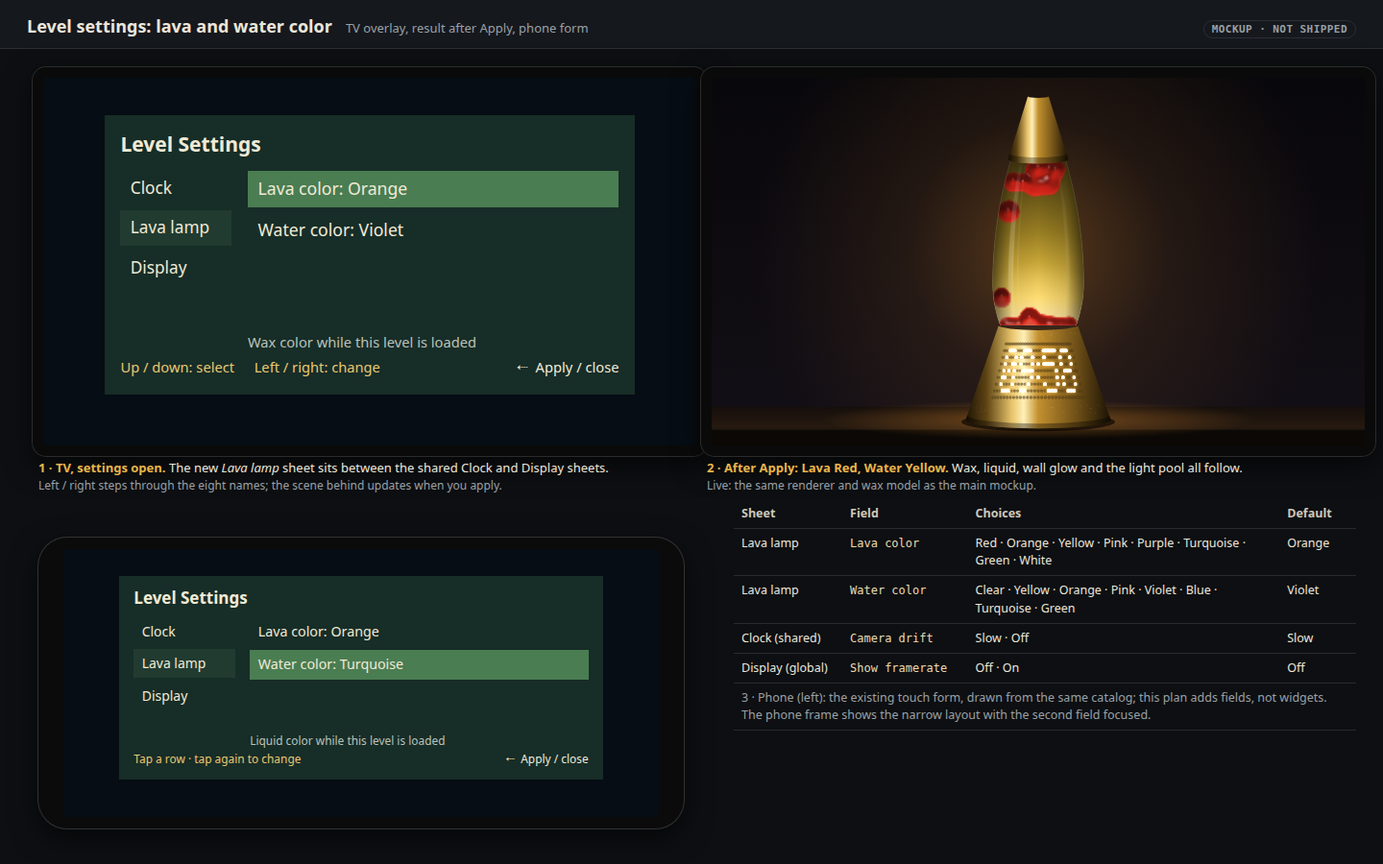
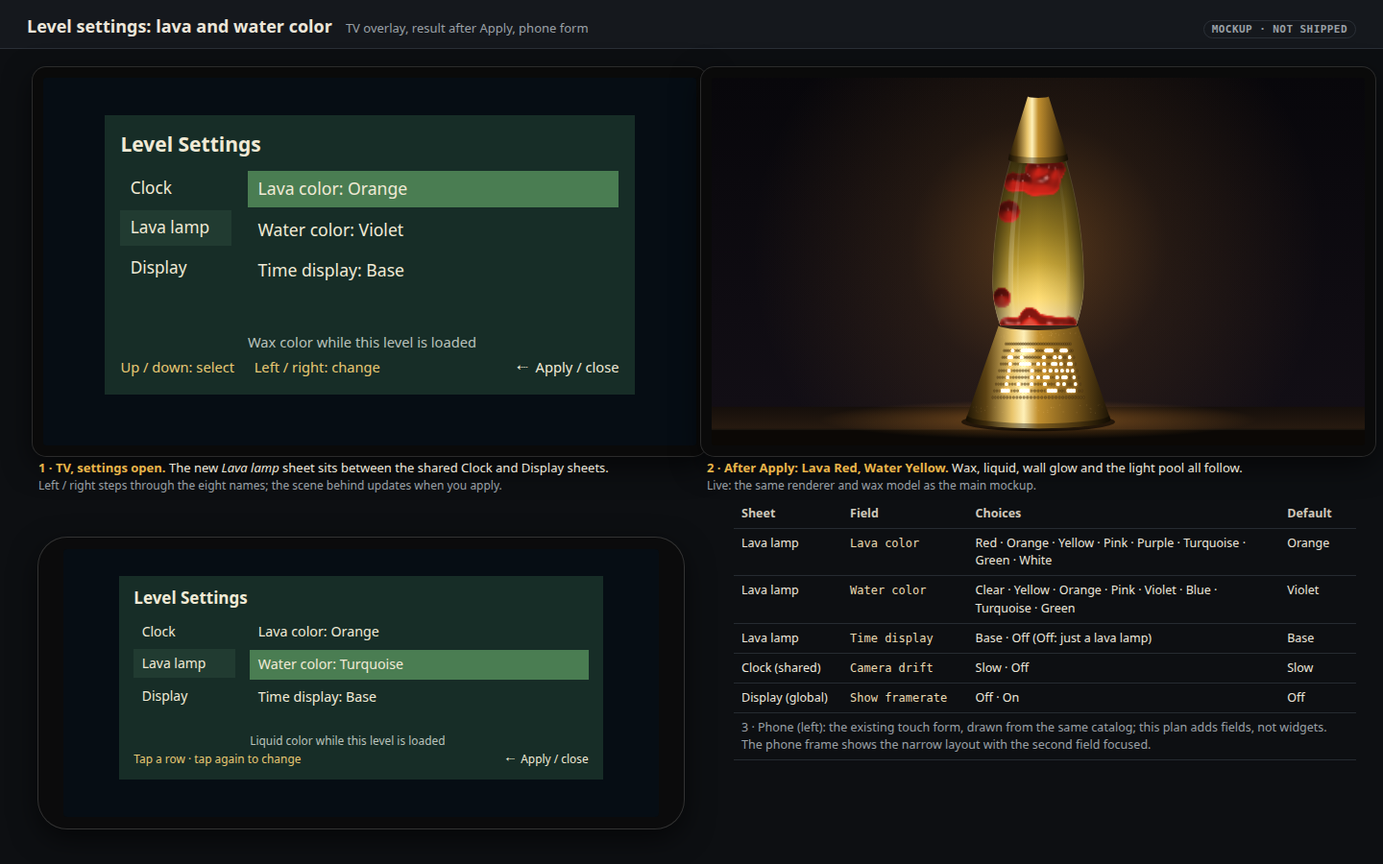
Lava lamp plan approved: starlight holes, Time display setting, 1959 on the poster
Will: "q1 1, q2 yes, q7 yes". The plan records the answers (other
questions at their recommendations), adds the Time display field
(Base / Off) to LavaLampSettings and both settings mockups, and puts
Travelling Light (1959) on the poster timeline.

Claude-Session: https://claude.ai/code/session_01YEenqPBXQwjNMi8EXwe2or

diff --git a/docs/plans/2026-11-26-lava-lamp/settings.html b/docs/plans/2026-11-26-lava-lamp/settings.html
@@ -38,7 +38,7 @@ header .tag{margin-left:auto;font:600 11px ui-monospace,SFMono-Regular,Menlo,mon
 <div class="tv" style="left:34px;top:70px"><div style="position:relative;width:680px;height:383px;font-size:21px;overflow:hidden;border-radius:3px">
  <div class="ov"><div class="pnl"><h2>Level Settings</h2>
  <div class="rail"><div>Clock</div><div class="on">Lava lamp</div><div>Display</div></div>
- <div class="rows"><div class="f">Lava color: Orange</div><div>Water color: Violet</div></div>
+ <div class="rows"><div class="f">Lava color: Orange</div><div>Water color: Violet</div><div>Time display: Base</div></div>
  <div class="hint">Wax color while this level is loaded</div>
  <div class="foot"><span>Up / down: select</span><span>Left / right: change</span><span>⇠&nbsp; Apply / close</span></div></div></div></div></div>
 <div class="cap" style="left:40px;top:478px"><b>1 · TV, settings open.</b> The new <i>Lava lamp</i> sheet sits between the shared Clock and Display sheets.<small>Left / right steps through the eight names; the scene behind updates when you apply.</small></div>
@@ -47,13 +47,14 @@ header .tag{margin-left:auto;font:600 11px ui-monospace,SFMono-Regular,Menlo,mon
 <div class="phone" style="left:40px;top:560px"><div style="position:relative;width:620px;height:279px;font-size:17px;overflow:hidden;border-radius:4px">
  <div class="ov"><div class="pnl"><h2>Level Settings</h2>
  <div class="rail"><div>Clock</div><div class="on">Lava lamp</div><div>Display</div></div>
- <div class="rows"><div>Lava color: Orange</div><div class="f">Water color: Turquoise</div></div>
+ <div class="rows"><div>Lava color: Orange</div><div class="f">Water color: Turquoise</div><div>Time display: Base</div></div>
  <div class="hint">Liquid color while this level is loaded</div>
  <div class="foot"><span>Tap a row · tap again to change</span><span>⇠&nbsp; Apply / close</span></div></div></div></div></div>
 <div class="cap" style="left:730px;top:478px;display:none"></div>
 <table id="tbl"><tr><th>Sheet</th><th>Field</th><th>Choices</th><th>Default</th></tr>
 <tr><td>Lava lamp</td><td><code>Lava color</code></td><td>Red · Orange · Yellow · Pink · Purple · Turquoise · Green · White</td><td>Orange</td></tr>
 <tr><td>Lava lamp</td><td><code>Water color</code></td><td>Clear · Yellow · Orange · Pink · Violet · Blue · Turquoise · Green</td><td>Violet</td></tr>
+<tr><td>Lava lamp</td><td><code>Time display</code></td><td>Base · Off (Off: just a lava lamp)</td><td>Base</td></tr>
 <tr><td>Clock (shared)</td><td><code>Camera drift</code></td><td>Slow · Off</td><td>Slow</td></tr>
 <tr><td>Display (global)</td><td><code>Show framerate</code></td><td>Off · On</td><td>Off</td></tr>
 <tr><td colspan="4" style="color:#9aa0a6">3 · Phone (left): the existing touch form, drawn from the same catalog; this plan adds fields, not widgets. The phone frame shows the narrow layout with the second field focused.</td></tr></table>
@@ -166,7 +167,7 @@ function drawHoleBand(ctx,cx,yT,yB,rAt,text,mode,th){
   th=th||1.0;const level=mode==='dim'?0.45:1;
   for(let c=0;c<nC;c++)for(let r=0;r<nR;r++){
     const y=yT+(r+0.5)*pitch,rr=rAt(y),a=((c-(nC-1)/2)/((nC-1)/2))*th,x=cx+rr*Math.sin(a),w=Math.cos(a);
-    if(cols[c][r]){ctx.fillStyle='rgba(20,12,3,0.9)';ell(ctx,x,y,hr*w*1.15,hr*1.15);lit.push([x,y,w]);}else{ctx.fillStyle='rgba(60,40,10,0.55)';ell(ctx,x,y,hr*w*0.8,hr*0.8);ctx.fillStyle='rgba(255,206,130,0.12)';ell(ctx,x,y,hr*w*0.5,hr*0.5);}
+    if(cols[c][r]&&mode!=='off'){ctx.fillStyle='rgba(20,12,3,0.9)';ell(ctx,x,y,hr*w*1.15,hr*1.15);lit.push([x,y,w]);}else{ctx.fillStyle='rgba(60,40,10,0.55)';ell(ctx,x,y,hr*w*0.8,hr*0.8);ctx.fillStyle='rgba(255,206,130,0.12)';ell(ctx,x,y,hr*w*0.5,hr*0.5);}
   }
   ctx.save();ctx.globalCompositeOperation='lighter';
   for(const [x,y,w] of lit){const g=ctx.createRadialGradient(x,y,0,x,y,hr*2.1);g.addColorStop(0,`rgba(255,196,110,${0.3*level})`);g.addColorStop(1,'rgba(255,170,80,0)');

diff --git a/docs/plans/2026-11-26-lava-lamp/lamp.html b/docs/plans/2026-11-26-lava-lamp/lamp.html
@@ -165,7 +165,7 @@ function drawHoleBand(ctx,cx,yT,yB,rAt,text,mode,th){
   th=th||1.0;const level=mode==='dim'?0.45:1;
   for(let c=0;c<nC;c++)for(let r=0;r<nR;r++){
     const y=yT+(r+0.5)*pitch,rr=rAt(y),a=((c-(nC-1)/2)/((nC-1)/2))*th,x=cx+rr*Math.sin(a),w=Math.cos(a);
-    if(cols[c][r]){ctx.fillStyle='rgba(20,12,3,0.9)';ell(ctx,x,y,hr*w*1.15,hr*1.15);lit.push([x,y,w]);}else{ctx.fillStyle='rgba(60,40,10,0.55)';ell(ctx,x,y,hr*w*0.8,hr*0.8);ctx.fillStyle='rgba(255,206,130,0.12)';ell(ctx,x,y,hr*w*0.5,hr*0.5);}
+    if(cols[c][r]&&mode!=='off'){ctx.fillStyle='rgba(20,12,3,0.9)';ell(ctx,x,y,hr*w*1.15,hr*1.15);lit.push([x,y,w]);}else{ctx.fillStyle='rgba(60,40,10,0.55)';ell(ctx,x,y,hr*w*0.8,hr*0.8);ctx.fillStyle='rgba(255,206,130,0.12)';ell(ctx,x,y,hr*w*0.5,hr*0.5);}
   }
   ctx.save();ctx.globalCompositeOperation='lighter';
   for(const [x,y,w] of lit){const g=ctx.createRadialGradient(x,y,0,x,y,hr*2.1);g.addColorStop(0,`rgba(255,196,110,${0.3*level})`);g.addColorStop(1,'rgba(255,170,80,0)');
@@ -242,11 +242,11 @@ function runViews(views,onFrame){
 
 
 // Applied values: what the level is running with. Pending: what the form shows until Apply.
-const applied={lava:DEF_LAVA,water:DEF_WATER,drift:0,fps:0};
+const applied={lava:DEF_LAVA,water:DEF_WATER,time:0,drift:0,fps:0};
 const pending=Object.assign({},applied);
 const SHEETS=[
  ["Clock",[["drift","Camera drift",["Slow","Off"],"The camera drifts slowly so no pixel sits still on the screen; Off holds it still"]]],
- ["Lava lamp",[["lava","Lava color",LAVA.map(x=>x[0]),"Wax color while this level is loaded"],["water","Water color",WATER.map(x=>x[0]),"Liquid color while this level is loaded"]]],
+ ["Lava lamp",[["lava","Lava color",LAVA.map(x=>x[0]),"Wax color while this level is loaded"],["water","Water color",WATER.map(x=>x[0]),"Liquid color while this level is loaded"],["time","Time display",["Base","Off"],"Show the time in the base of the lamp; Off leaves just the lava lamp"]]],
  ["Display",[["fps","Show framerate",["Off","On"],"Show the frames per second overlay at the bottom right"]]]];
 let sheet=1,row=0;
 function renderForm(){
@@ -271,9 +271,9 @@ renderForm();
 const sim=makeSim(7,8);let fpsShown=60,lastT=performance.now();
 const views=[
  {canvas:document.getElementById('tv'),sim,draw:(ctx,W,H,v)=>{const now=performance.now(),dt=now-lastT;lastT=now;if(dt>0&&dt<200)fpsShown=fpsShown*0.95+0.05*(1000/dt);
-   v.G=drawScene(ctx,W,H,{sim,lava:applied.lava,water:applied.water,time:nowHHMM(),cache:v.cache||(v.cache={}),drift:applied.drift?0:W*0.006*Math.sin(sim.t*2*Math.PI/600)});
+   v.G=drawScene(ctx,W,H,{sim,lava:applied.lava,water:applied.water,time:applied.time?null:nowHHMM(),mode:applied.time?'off':'',cache:v.cache||(v.cache={}),drift:applied.drift?0:W*0.006*Math.sin(sim.t*2*Math.PI/600)});
    if(applied.fps){ctx.font='13px ui-monospace,monospace';const t=fpsShown.toFixed(1),w=ctx.measureText(t).width;ctx.fillStyle='rgba(0,0,0,.6)';ctx.fillRect(W-w-22,H-28,w+12,19);ctx.fillStyle='#fff';ctx.fillText(t,W-w-16,H-14);}}},
- {canvas:document.getElementById('zoom'),sim,frozen:true,draw:(ctx,W,H,v)=>{drawScene(ctx,W,H,{sim,lava:applied.lava,water:applied.water,time:nowHHMM(),cache:v.cache||(v.cache={}),scale:1.25,baseFrac:0.96});}}];
+ {canvas:document.getElementById('zoom'),sim,frozen:true,draw:(ctx,W,H,v)=>{drawScene(ctx,W,H,{sim,lava:applied.lava,water:applied.water,time:applied.time?null:nowHHMM(),mode:applied.time?'off':'',cache:v.cache||(v.cache={}),scale:1.25,baseFrac:0.96});}}];
 const LEG=[["Cap","conical metal cap; the top of the globe is the coolest place, where wax rests and cools before it sinks"],
 ["Glass","tapered globe, widest a quarter of the way up; painted highlight strips and darkened edges give the cylinder its volume"],
 ["Rising blob","heated wax stretches into a teardrop as it climbs, cools as it goes, then flattens against the top"],

diff --git a/docs/plans/2026-11-26-lava-lamp/poster.html b/docs/plans/2026-11-26-lava-lamp/poster.html
@@ -94,7 +94,7 @@ header .tag{margin-left:auto;font:600 11px ui-monospace,SFMono-Regular,Menlo,mon
  <p>The hero image on the sheet is this mockup's canvas lamp. The print uses a Cycles render of the shipped Blender scene, as the aquarium posters do.</p>
  <p>The patent table links each number to Google Patents. The PDF keeps the links, and the print adds a QR code per row (Q8).</p>
  <p>Panel 05 runs from Dunnet's 1950 filing to Cloudflare's wall of about 100 lamps in 2017. Events are spaced evenly, not to scale.</p>
- <p>Q7 asks whether the timeline should mention that Craven Walker also directed <i>Travelling Light</i> (1959), the first naturist film released publicly in the UK.</p>
+ <p>Q7, yes: the timeline includes 1959, when Craven Walker (as Michael Keatering) directed <i>Travelling Light</i>, the first naturist film released publicly in the UK.</p>
  <p>Panel 06 is the movement code. Panel 07 lists the four ways to move the wax that the plan weighs (D6); the Forth model is ticked as recommended.</p>
 </div>
 
@@ -206,7 +206,7 @@ function drawHoleBand(ctx,cx,yT,yB,rAt,text,mode,th){
   th=th||1.0;const level=mode==='dim'?0.45:1;
   for(let c=0;c<nC;c++)for(let r=0;r<nR;r++){
     const y=yT+(r+0.5)*pitch,rr=rAt(y),a=((c-(nC-1)/2)/((nC-1)/2))*th,x=cx+rr*Math.sin(a),w=Math.cos(a);
-    if(cols[c][r]){ctx.fillStyle='rgba(20,12,3,0.9)';ell(ctx,x,y,hr*w*1.15,hr*1.15);lit.push([x,y,w]);}else{ctx.fillStyle='rgba(60,40,10,0.55)';ell(ctx,x,y,hr*w*0.8,hr*0.8);ctx.fillStyle='rgba(255,206,130,0.12)';ell(ctx,x,y,hr*w*0.5,hr*0.5);}
+    if(cols[c][r]&&mode!=='off'){ctx.fillStyle='rgba(20,12,3,0.9)';ell(ctx,x,y,hr*w*1.15,hr*1.15);lit.push([x,y,w]);}else{ctx.fillStyle='rgba(60,40,10,0.55)';ell(ctx,x,y,hr*w*0.8,hr*0.8);ctx.fillStyle='rgba(255,206,130,0.12)';ell(ctx,x,y,hr*w*0.5,hr*0.5);}
   }
   ctx.save();ctx.globalCompositeOperation='lighter';
   for(const [x,y,w] of lit){const g=ctx.createRadialGradient(x,y,0,x,y,hr*2.1);g.addColorStop(0,`rgba(255,196,110,${0.3*level})`);g.addColorStop(1,'rgba(255,170,80,0)');
@@ -307,7 +307,7 @@ S('dens',`<rect x="0" y="0" width="190" height="150" fill="#fff8ea" rx="8"/><pat
 ${T(150,136,'temperature →',{fs:10})}${T(12,70,'ρ',{fs:14,w:700})}${T(58,28,'wax',{fs:10,c:'#c2481a',w:700})}${T(58,72,'liquid',{fs:10,c:'#3d6fb0',w:700})}
 ${T(62,146,'sinks',{fs:10})}${T(150,146,'rises',{fs:10})}`);
 // 05: evenly spaced timeline, two-line labels
-const ev=[['1950','Dunnet files','GB 703,924'],['1963','Astro','launched'],['1965','US rights:','Lava Lite, Chicago'],['1968','US 3,387,396','granted'],['1970','CCl₄ banned','in US lamps'],['late 1970s','Haggerty buys','the US rights'],['1992','Crestworth','becomes Mathmos'],['1998','Lavarand','patent granted'],['2000','Craven Walker','dies'],['2017','Cloudflare’s','lamp wall']];
-S('tl',`<path d="M10 40 H994" stroke="#5a4a3a" stroke-width="2"/>`+ev.map(([y,a,b],i)=>{const x=60+i*98;return `<circle cx="${x}" cy="40" r="5" fill="#c2581a"/>${T(x,26,y,{w:700,fs:13})}${T(x,62,a,{fs:11})}${T(x,76,b,{fs:11})}`;}).join(''));
+const ev=[['1950','Dunnet files','GB 703,924'],['1959','Travelling Light,','his naturist film'],['1963','Astro','launched'],['1965','Lava Lite,','Chicago'],['1968','US 3,387,396','granted'],['1970','CCl₄ banned','in US lamps'],['late 1970s','Haggerty buys','the US rights'],['1992','renamed','Mathmos'],['1998','Lavarand','patent'],['2000','Craven Walker','dies'],['2017','Cloudflare’s','lamp wall']];
+S('tl',`<path d="M10 40 H994" stroke="#5a4a3a" stroke-width="2"/>`+ev.map(([y,a,b],i)=>{const x=50+i*90;return `<circle cx="${x}" cy="40" r="5" fill="#c2581a"/>${T(x,26,y,{w:700,fs:13})}${T(x,62,a,{fs:11})}${T(x,76,b,{fs:11})}`;}).join(''));
 window.__ready=true;
 </script></body></html>

diff --git a/docs/plans/2026-11-26-lava-lamp/build_mockups.py b/docs/plans/2026-11-26-lava-lamp/build_mockups.py
@@ -124,7 +124,7 @@ function drawHoleBand(ctx,cx,yT,yB,rAt,text,mode,th){
   th=th||1.0;const level=mode==='dim'?0.45:1;
   for(let c=0;c<nC;c++)for(let r=0;r<nR;r++){
     const y=yT+(r+0.5)*pitch,rr=rAt(y),a=((c-(nC-1)/2)/((nC-1)/2))*th,x=cx+rr*Math.sin(a),w=Math.cos(a);
-    if(cols[c][r]){ctx.fillStyle='rgba(20,12,3,0.9)';ell(ctx,x,y,hr*w*1.15,hr*1.15);lit.push([x,y,w]);}else{ctx.fillStyle='rgba(60,40,10,0.55)';ell(ctx,x,y,hr*w*0.8,hr*0.8);ctx.fillStyle='rgba(255,206,130,0.12)';ell(ctx,x,y,hr*w*0.5,hr*0.5);}
+    if(cols[c][r]&&mode!=='off'){ctx.fillStyle='rgba(20,12,3,0.9)';ell(ctx,x,y,hr*w*1.15,hr*1.15);lit.push([x,y,w]);}else{ctx.fillStyle='rgba(60,40,10,0.55)';ell(ctx,x,y,hr*w*0.8,hr*0.8);ctx.fillStyle='rgba(255,206,130,0.12)';ell(ctx,x,y,hr*w*0.5,hr*0.5);}
   }
   ctx.save();ctx.globalCompositeOperation='lighter';
   for(const [x,y,w] of lit){const g=ctx.createRadialGradient(x,y,0,x,y,hr*2.1);g.addColorStop(0,`rgba(255,196,110,${0.3*level})`);g.addColorStop(1,'rgba(255,170,80,0)');
@@ -273,11 +273,11 @@ LAMP_CSS = """
 """
 LAMP_SCRIPT = r"""
 // Applied values: what the level is running with. Pending: what the form shows until Apply.
-const applied={lava:DEF_LAVA,water:DEF_WATER,drift:0,fps:0};
+const applied={lava:DEF_LAVA,water:DEF_WATER,time:0,drift:0,fps:0};
 const pending=Object.assign({},applied);
 const SHEETS=[
  ["Clock",[["drift","Camera drift",["Slow","Off"],"The camera drifts slowly so no pixel sits still on the screen; Off holds it still"]]],
- ["Lava lamp",[["lava","Lava color",LAVA.map(x=>x[0]),"Wax color while this level is loaded"],["water","Water color",WATER.map(x=>x[0]),"Liquid color while this level is loaded"]]],
+ ["Lava lamp",[["lava","Lava color",LAVA.map(x=>x[0]),"Wax color while this level is loaded"],["water","Water color",WATER.map(x=>x[0]),"Liquid color while this level is loaded"],["time","Time display",["Base","Off"],"Show the time in the base of the lamp; Off leaves just the lava lamp"]]],
  ["Display",[["fps","Show framerate",["Off","On"],"Show the frames per second overlay at the bottom right"]]]];
 let sheet=1,row=0;
 function renderForm(){
@@ -302,9 +302,9 @@ renderForm();
 const sim=makeSim(7,8);let fpsShown=60,lastT=performance.now();
 const views=[
  {canvas:document.getElementById('tv'),sim,draw:(ctx,W,H,v)=>{const now=performance.now(),dt=now-lastT;lastT=now;if(dt>0&&dt<200)fpsShown=fpsShown*0.95+0.05*(1000/dt);
-   v.G=drawScene(ctx,W,H,{sim,lava:applied.lava,water:applied.water,time:nowHHMM(),cache:v.cache||(v.cache={}),drift:applied.drift?0:W*0.006*Math.sin(sim.t*2*Math.PI/600)});
+   v.G=drawScene(ctx,W,H,{sim,lava:applied.lava,water:applied.water,time:applied.time?null:nowHHMM(),mode:applied.time?'off':'',cache:v.cache||(v.cache={}),drift:applied.drift?0:W*0.006*Math.sin(sim.t*2*Math.PI/600)});
    if(applied.fps){ctx.font='13px ui-monospace,monospace';const t=fpsShown.toFixed(1),w=ctx.measureText(t).width;ctx.fillStyle='rgba(0,0,0,.6)';ctx.fillRect(W-w-22,H-28,w+12,19);ctx.fillStyle='#fff';ctx.fillText(t,W-w-16,H-14);}}},
- {canvas:document.getElementById('zoom'),sim,frozen:true,draw:(ctx,W,H,v)=>{drawScene(ctx,W,H,{sim,lava:applied.lava,water:applied.water,time:nowHHMM(),cache:v.cache||(v.cache={}),scale:1.25,baseFrac:0.96});}}];
+ {canvas:document.getElementById('zoom'),sim,frozen:true,draw:(ctx,W,H,v)=>{drawScene(ctx,W,H,{sim,lava:applied.lava,water:applied.water,time:applied.time?null:nowHHMM(),mode:applied.time?'off':'',cache:v.cache||(v.cache={}),scale:1.25,baseFrac:0.96});}}];
 const LEG=[["Cap","conical metal cap; the top of the globe is the coolest place, where wax rests and cools before it sinks"],
 ["Glass","tapered globe, widest a quarter of the way up; painted highlight strips and darkened edges give the cylinder its volume"],
 ["Rising blob","heated wax stretches into a teardrop as it climbs, cools as it goes, then flattens against the top"],
@@ -450,7 +450,7 @@ SET_BODY = """
 <div class="tv" style="left:34px;top:70px"><div style="position:relative;width:680px;height:383px;font-size:21px;overflow:hidden;border-radius:3px">
  <div class="ov"><div class="pnl"><h2>Level Settings</h2>
  <div class="rail"><div>Clock</div><div class="on">Lava lamp</div><div>Display</div></div>
- <div class="rows"><div class="f">Lava color: Orange</div><div>Water color: Violet</div></div>
+ <div class="rows"><div class="f">Lava color: Orange</div><div>Water color: Violet</div><div>Time display: Base</div></div>
  <div class="hint">Wax color while this level is loaded</div>
  <div class="foot"><span>Up / down: select</span><span>Left / right: change</span><span>⇠&nbsp; Apply / close</span></div></div></div></div></div>
 <div class="cap" style="left:40px;top:478px"><b>1 · TV, settings open.</b> The new <i>Lava lamp</i> sheet sits between the shared Clock and Display sheets.<small>Left / right steps through the eight names; the scene behind updates when you apply.</small></div>
@@ -459,13 +459,14 @@ SET_BODY = """
 <div class="phone" style="left:40px;top:560px"><div style="position:relative;width:620px;height:279px;font-size:17px;overflow:hidden;border-radius:4px">
  <div class="ov"><div class="pnl"><h2>Level Settings</h2>
  <div class="rail"><div>Clock</div><div class="on">Lava lamp</div><div>Display</div></div>
- <div class="rows"><div>Lava color: Orange</div><div class="f">Water color: Turquoise</div></div>
+ <div class="rows"><div>Lava color: Orange</div><div class="f">Water color: Turquoise</div><div>Time display: Base</div></div>
  <div class="hint">Liquid color while this level is loaded</div>
  <div class="foot"><span>Tap a row · tap again to change</span><span>⇠&nbsp; Apply / close</span></div></div></div></div></div>
 <div class="cap" style="left:730px;top:478px;display:none"></div>
 <table id="tbl"><tr><th>Sheet</th><th>Field</th><th>Choices</th><th>Default</th></tr>
 <tr><td>Lava lamp</td><td><code>Lava color</code></td><td>Red · Orange · Yellow · Pink · Purple · Turquoise · Green · White</td><td>Orange</td></tr>
 <tr><td>Lava lamp</td><td><code>Water color</code></td><td>Clear · Yellow · Orange · Pink · Violet · Blue · Turquoise · Green</td><td>Violet</td></tr>
+<tr><td>Lava lamp</td><td><code>Time display</code></td><td>Base · Off (Off: just a lava lamp)</td><td>Base</td></tr>
 <tr><td>Clock (shared)</td><td><code>Camera drift</code></td><td>Slow · Off</td><td>Slow</td></tr>
 <tr><td>Display (global)</td><td><code>Show framerate</code></td><td>Off · On</td><td>Off</td></tr>
 <tr><td colspan="4" style="color:#9aa0a6">3 · Phone (left): the existing touch form, drawn from the same catalog; this plan adds fields, not widgets. The phone frame shows the narrow layout with the second field focused.</td></tr></table>
@@ -576,7 +577,7 @@ POSTER_BODY = r"""
  <p>The hero image on the sheet is this mockup's canvas lamp. The print uses a Cycles render of the shipped Blender scene, as the aquarium posters do.</p>
  <p>The patent table links each number to Google Patents. The PDF keeps the links, and the print adds a QR code per row (Q8).</p>
  <p>Panel 05 runs from Dunnet's 1950 filing to Cloudflare's wall of about 100 lamps in 2017. Events are spaced evenly, not to scale.</p>
- <p>Q7 asks whether the timeline should mention that Craven Walker also directed <i>Travelling Light</i> (1959), the first naturist film released publicly in the UK.</p>
+ <p>Q7, yes: the timeline includes 1959, when Craven Walker (as Michael Keatering) directed <i>Travelling Light</i>, the first naturist film released publicly in the UK.</p>
  <p>Panel 06 is the movement code. Panel 07 lists the four ways to move the wax that the plan weighs (D6); the Forth model is ticked as recommended.</p>
 </div>
 """
@@ -606,8 +607,8 @@ S('dens',`<rect x="0" y="0" width="190" height="150" fill="#fff8ea" rx="8"/><pat
 ${T(150,136,'temperature →',{fs:10})}${T(12,70,'ρ',{fs:14,w:700})}${T(58,28,'wax',{fs:10,c:'#c2481a',w:700})}${T(58,72,'liquid',{fs:10,c:'#3d6fb0',w:700})}
 ${T(62,146,'sinks',{fs:10})}${T(150,146,'rises',{fs:10})}`);
 // 05: evenly spaced timeline, two-line labels
-const ev=[['1950','Dunnet files','GB 703,924'],['1963','Astro','launched'],['1965','US rights:','Lava Lite, Chicago'],['1968','US 3,387,396','granted'],['1970','CCl₄ banned','in US lamps'],['late 1970s','Haggerty buys','the US rights'],['1992','Crestworth','becomes Mathmos'],['1998','Lavarand','patent granted'],['2000','Craven Walker','dies'],['2017','Cloudflare’s','lamp wall']];
-S('tl',`<path d="M10 40 H994" stroke="#5a4a3a" stroke-width="2"/>`+ev.map(([y,a,b],i)=>{const x=60+i*98;return `<circle cx="${x}" cy="40" r="5" fill="#c2581a"/>${T(x,26,y,{w:700,fs:13})}${T(x,62,a,{fs:11})}${T(x,76,b,{fs:11})}`;}).join(''));
+const ev=[['1950','Dunnet files','GB 703,924'],['1959','Travelling Light,','his naturist film'],['1963','Astro','launched'],['1965','Lava Lite,','Chicago'],['1968','US 3,387,396','granted'],['1970','CCl₄ banned','in US lamps'],['late 1970s','Haggerty buys','the US rights'],['1992','renamed','Mathmos'],['1998','Lavarand','patent'],['2000','Craven Walker','dies'],['2017','Cloudflare’s','lamp wall']];
+S('tl',`<path d="M10 40 H994" stroke="#5a4a3a" stroke-width="2"/>`+ev.map(([y,a,b],i)=>{const x=50+i*90;return `<circle cx="${x}" cy="40" r="5" fill="#c2581a"/>${T(x,26,y,{w:700,fs:13})}${T(x,62,a,{fs:11})}${T(x,76,b,{fs:11})}`;}).join(''));
 window.__ready=true;
 """
 

diff --git a/docs/plans/2026-11-26-lava-lamp.md b/docs/plans/2026-11-26-lava-lamp.md
@@ -1,6 +1,6 @@
 # Lava lamp: a real lamp, with the time in its base
 
-**Status: plan for review, 2026‑11‑26.** Nothing is built. This plan replaces the design of [Lava-lamp digits](2026-11-24-lava-lamp-digits.md), whose wax forms the digits of the time. Here the level models and emulates an ordinary lava lamp, and the time moves to the lamp's base. The level becomes `lava_lamp`. Will's direction (2026‑11‑26):
+**Status: approved 2026‑11‑26; not built yet.** Will (2026‑11‑26): "q1 1, q2 yes, q7 yes": the starlight holes, a *Time display* setting, and the naturist-film line on the poster. The other decisions and questions stand at their recommendations, as offered. E2, the math words, is built ([math plan](2026-11-26-forth-math-words.md)). This plan replaces the design of [Lava-lamp digits](2026-11-24-lava-lamp-digits.md), whose wax forms the digits of the time. Here the level models and emulates an ordinary lava lamp, and the time moves to the lamp's base. The level becomes `lava_lamp`. Will's direction (2026‑11‑26):
 
 > "codex has coded a lava lamp screensaver but it's horrible … the engine can morph models, fwiw … let's change the design (for now) from using the lava to make the digits of the time to 'simply' modelling and emulating a regular lava lamp. research on the internet! put the current time in the base or something like that (give me 20 options for displaying the time) add level settings object to select lava color and water color"
 
@@ -44,7 +44,7 @@ What we keep from it: the settings-object pattern (`LavaLampDigitsSettings`, Cam
 | D4 | How the wax gets its shape | **Morph targets: a new `Morph` kind in the engine's one deformer slot (E1).** Blender shape keys export as a mesh chunk. Forth sets the weights each frame through `deform-block`, and the deformer also writes **prelit vertex colours**, so wax is smoothly (Gouraud) shaded and tinted (the renderer only Gouraud-shades prelit materials: `material.cc:113`) | (a) The engine's legacy CANM vertex-channel cycles (`anim/anim.cc`). They are loaded and played, but only as clock-driven loops, with no script control (`EMAILBOX_KEYFRAME` is `UNIMPLEMENTED`) and no exporter. (b) Non-uniform scale (3040–3042) plus `fish-deform`, Codex's approach: rigid. (c) A metaball shader: closest to real, but a new GPU path on GLES2 Chromecasts |
 | D5 | Merging and splitting | **Swap meshes at the neck.** Two touching blobs hide, and one merged mesh shows at their centroid, its `neck` weight following their distance and its radius ∛(r₁³ + r₂³) so the wax keeps its volume. Splitting runs the same swap in reverse, and a tower leaving the pool is the same trick. The swap happens where the wax is thinnest, so the eye does not see it | Never merge (blobs pass through each other); shader metaballs (D4c) |
 | D6 | How the wax moves | **A buoyancy model in the level's zForth** (F1 below). State lives in each blob's local mailboxes and the model takes fixed 1/30 s steps from `DELTA_TIME`. A Python reference (`model.py`) and a step-for-step trace test check it | F2 a baked tape; F3 a native C++ word; F4 Jolt rigid bodies (the parked TODO). See [How the wax moves](#how-the-wax-moves) |
-| D7 | Time display | **Option 1, starlight holes**: lit holes in the gold base spell HH:MM, 24-hour, on a 29 × 9 grid, with every other hole a faint glow. **Will picks** from the [twenty](#twenty-ways-to-show-the-time) (Q1) | Any of options 2–20 |
+| D7 | Time display | **Option 1, starlight holes**: lit holes in the gold base spell HH:MM, 24-hour, on a 29 × 9 grid, with every other hole a faint glow. Will chose it from the [twenty](#twenty-ways-to-show-the-time) (Q1), and a *Time display* setting (*Base / Off*) can turn it off (Q2) | Any of options 2–20 |
 | D8 | Colour settings | **Two choice fields on a `Lava lamp` sheet**: *Lava color* (8 names) and *Water color* (8 names). Defaults Orange in Violet, the Astro Gold pairing. All recolouring goes through the Morph deformer's tint channels, one mechanism for wax, pool, liquid, glass, wall glow and table light | Per-face colour mailboxes 3037–3039 (three materials, re-bake on write; their effect on prelit gradients is unproven); an indexed-palette swap like Corolla's (one global index, so 64 palettes for 8 × 8); an RGB picker (no picker widget exists) |
 | D9 | Start state | **Open mid-flow.** At load the model runs about 150 s of model time (a few milliseconds) so the level opens with wax already moving | A real cold start (45–90 min); a compressed 2‑min warm-up as a setting (Q4) |
 | D10 | Poster | **Yes: an A3 portrait poster on the repository's poster pipeline** (research document first, chips on every claim, `make_poster.py` / `export_poster.py`, pytest guard), as for the aquarium and Tide Harbour. Contents: physics, wax properties, history, patents with links, and Forth | A figure in this plan only |
@@ -55,14 +55,14 @@ What we keep from it: the settings-object pattern (`LavaLampDigitsSettings`, Cam
 
 | # | Question | My recommendation |
 |---|---|---|
-| Q1 | Which time display, from the twenty? You can pick more than one and choose between them in settings | **1, Starlight holes.** Second choices: 4 (Nixie) or 15 (flip clock) |
-| Q2 | Add a *Time display* setting (*Base / Off*) so the level can be just a lava lamp? | **Yes** (one more choice field) |
-| Q3 | Base and cap finish as a third setting (*Gold / Silver / Black*)? | **Not now.** Cheap with the tint path; add it if you want it |
-| Q4 | A *Flow* setting (*Real / Lively*, the latter ≈ 1.5× faster) or a compressed warm-up? | **No** for the first build. Tune from the PC run |
-| Q5 | Same-colour pairs (yellow in yellow) allowed? | **Yes**: it is the viewer's choice; the [palette sheet](#the-settings-lava-color-and-water-color) shows them |
-| Q6 | Into the 3D Clocks pack once the device pass is done? | **Yes**, after Phase 6 |
-| Q7 | The poster's timeline: mention that Craven Walker also directed *Travelling Light* (1959), the first naturist film released publicly in the UK? | **Yes, one line.** It is documented and it is the sort of detail that makes a poster |
-| Q8 | A QR code per patent on the printed poster? | **Yes** |
+| Q1 | Which time display, from the twenty? You can pick more than one and choose between them in settings | ~~**1, Starlight holes.** Second choices: 4 (Nixie) or 15 (flip clock)~~ **Chosen: 1, Starlight holes** (Will). |
+| Q2 | Add a *Time display* setting (*Base / Off*) so the level can be just a lava lamp? | ~~**Yes** (one more choice field)~~ **Yes** (Will): *Time display*, *Base / Off*, on the Lava lamp sheet. |
+| Q3 | Base and cap finish as a third setting (*Gold / Silver / Black*)? | ~~**Not now.** Cheap with the tint path; add it if you want it~~ Not now (recommendation stands). |
+| Q4 | A *Flow* setting (*Real / Lively*, the latter ≈ 1.5× faster) or a compressed warm-up? | ~~**No** for the first build. Tune from the PC run~~ No (recommendation stands). |
+| Q5 | Same-colour pairs (yellow in yellow) allowed? | ~~**Yes**: it is the viewer's choice; the [palette sheet](#the-settings-lava-color-and-water-color) shows them~~ Yes (recommendation stands). |
+| Q6 | Into the 3D Clocks pack once the device pass is done? | ~~**Yes**, after Phase 6~~ Yes, after Phase 6 (recommendation stands). |
+| Q7 | The poster's timeline: mention that Craven Walker also directed *Travelling Light* (1959), the first naturist film released publicly in the UK? | ~~**Yes, one line.** It is documented and it is the sort of detail that makes a poster~~ **Yes** (Will): 1959 joins the timeline. |
+| Q8 | A QR code per patent on the printed poster? | ~~**Yes**~~ Yes (recommendation stands). |
 
 ## The look
 
@@ -127,12 +127,13 @@ TYPEHEADER(Lava Lamp Settings,LavaLampSettings)
 	PROPERTY_SHEET_HEADER(Lava lamp,0)
 	TYPEENTRYINT32(Lava color,,0,7,1,"Red|Orange|Yellow|Pink|Purple|Turquoise|Green|White",SHOW_AS_RADIOBUTTONS|SHOW_AS_LIVE,"Wax color while this level is loaded")
 	TYPEENTRYINT32(Water color,,0,7,4,"Clear|Yellow|Orange|Pink|Violet|Blue|Turquoise|Green",SHOW_AS_RADIOBUTTONS|SHOW_AS_LIVE,"Liquid color while this level is loaded")
+	TYPEENTRYINT32(Time display,,0,1,0,"Base|Off",SHOW_AS_RADIOBUTTONS|SHOW_AS_LIVE,"Show the time in the base of the lamp; Off leaves just the lava lamp")
 	PROPERTY_SHEET_FOOTER
 	@include global_settings.inc
 TYPEFOOTER
 ```
 
-The Director reads both fields with `property@` every frame and compares them with the last values it applied, kept in director mailboxes. When either changes, it writes new tint channels to the static tinted actors (liquid, glass, wall glow, table light). The blobs and pool receive their tint every frame anyway, with their pose. `scripts/gen-settings-capabilities.py` regenerates the phone capability file as part of `build.sh`, as it does now.
+The Director reads the three fields with `property@` every frame. *Time display* Off hides the 40 numeral meshes and the colon and leaves the faint starlight holes, so the base still looks like an Astro and compares them with the last values it applied, kept in director mailboxes. When either changes, it writes new tint channels to the static tinted actors (liquid, glass, wall glow, table light). The blobs and pool receive their tint every frame anyway, with their pose. `scripts/gen-settings-capabilities.py` regenerates the phone capability file as part of `build.sh`, as it does now.
 
 [![All 64 lava and water pairings as small lamps; the default Orange in Violet outlined; numbered real pairings; low-contrast pairs marked](2026-11-26-lava-lamp/palettes.png)](2026-11-26-lava-lamp/palettes.html)
 
@@ -303,6 +304,7 @@ The poster is drawn at A3 size and scaled into the mockup, on real, sourced text
 **History for panel 05.**
 
 - 1950: Dunnet files his patent. Craven Walker later sees a home-made bubbling egg timer on a pub stove.
+- 1959: under the name Michael Keatering, Craven Walker directs *Travelling Light*, the first naturist film released publicly in the UK (Q7).
 - 1963: Crestworth launches the Astro.
 - 1965: Adolph Wertheimer and Hy Spector see it at a German trade show and buy the American rights (Lava Manufacturing Corporation, Chicago: the Lava Lite).
 - 1970: carbon tetrachloride is banned in US lamps.

diff --git a/TODO.md b/TODO.md
@@ -6,7 +6,7 @@
 
 - **Dutch Cuckoo Village audio.** Add an original two-note cuckoo call and a Sound setting. On desktop and Android, synchronize each call with the bird’s bob, skip missed calls after resume or clock changes, and verify mute, volume and Dream audio focus. Will deferred sound changes on 2026-11-24. [Tulpenkade plan](docs/plans/2026-11-24-dutch-cuckoo-village.md)
 
-- [T4] **Lava lamp screensaver (replaces Lava-lamp digits).** Model a real 1963-style Astro lamp: Morph deformer kind for wax shapes (E1), a zForth buoyancy model, the time in the base (Will picks from 20 options), Lava color and Water color settings. T4: E1's vertex-colour path is an open unknown, and the work spans engine, exporter, level and Forth. Awaiting Will's review of D1–D12 and Q1–Q8. [Plan](docs/plans/2026-11-26-lava-lamp.md)
+- [T4] **Lava lamp screensaver (replaces Lava-lamp digits).** Model a real 1963-style Astro lamp: Morph deformer kind for wax shapes (E1), a zForth buoyancy model, the time in the base (Will picks from 20 options), Lava color and Water color settings. T4: E1's vertex-colour path is an open unknown, and the work spans engine, exporter, level and Forth. Approved 2026‑11‑26 (Q1 starlight holes, Q2 Time display setting, Q7 naturist-film line; the rest at recommendations). E2 is built. [Plan](docs/plans/2026-11-26-lava-lamp.md)
 
 - [verify T3] **Forth math words, part 2: exponentials, logarithms, rounding, integer bits.** Built and pushed (a6ed5868e..57abb43d2): 27 words, custom syscalls 82–108; four levels' hand-rolled floors replaced. Verification 1–3 and 7 PASS; PC and WebAssembly agree bit for bit on all 36 words. Still open: 4 and 5 on cast1, cast2 and the Pixel (no route to run code on the devices; see the item below); 6 FAIL only because the plan's `pytest tests -k` command stops at collection (per-level runs pass). [Plan](docs/plans/2026-11-26-forth-math-words.md) <!-- agent:a6f577a2e9c7edd6f -->
 

diff --git a/docs/plans/.history/2026-11-26-lava-lamp.md b/docs/plans/.history/2026-11-26-lava-lamp.md
@@ -1,9 +1,15 @@
 | Date | Change |
 |------|--------|
+| [2026-11-26](https://github.com/wbniv/WorldFoundry/commit/7e365fa79) | Lava lamp mockup: colours through the Level Settings form; math plan Q1-Q3 accepted |
 | [2026-11-26](https://github.com/wbniv/WorldFoundry/commit/a7e37975d) | Plan: Forth math words part 2, with a hardware support matrix |
 | [2026-11-26](https://github.com/wbniv/WorldFoundry/commit/34e948923) | Plan: real lava lamp screensaver with the time in its base |
 
 <!--history-meta v1
+7e365fa79	author	Will Norris
+7e365fa79	added	2
+7e365fa79	deleted	2
+7e365fa79	files	1
+7e365fa79	body	The mockup's colour swatches are replaced by a working replica of the\nlevel's Level Settings form (Clock / Lava lamp / Display sheets,\nLava color and Water color rows, Apply), since the colours belong to\nthe LavaLampSettings object. The math plan records Will's yes to\nQ1-Q3, and TODO gains the ARMv8 32-bit Chromecast build measurement.\n\nCo-Authored-By: Claude Opus 5.5 <noreply@anthropic.com>\nClaude-Session: https://claude.ai/code/session_01YEenqPBXQwjNMi8EXwe2or
 a7e37975d	author	Will Norris
 a7e37975d	added	4
 a7e37975d	deleted	32
